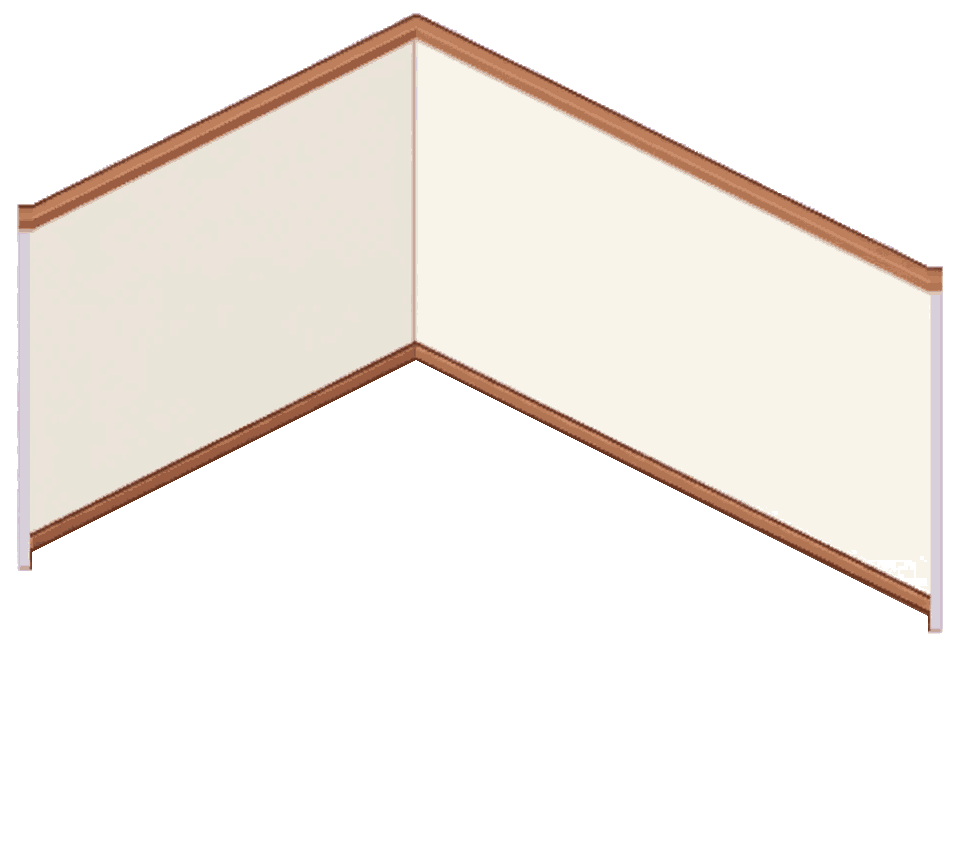
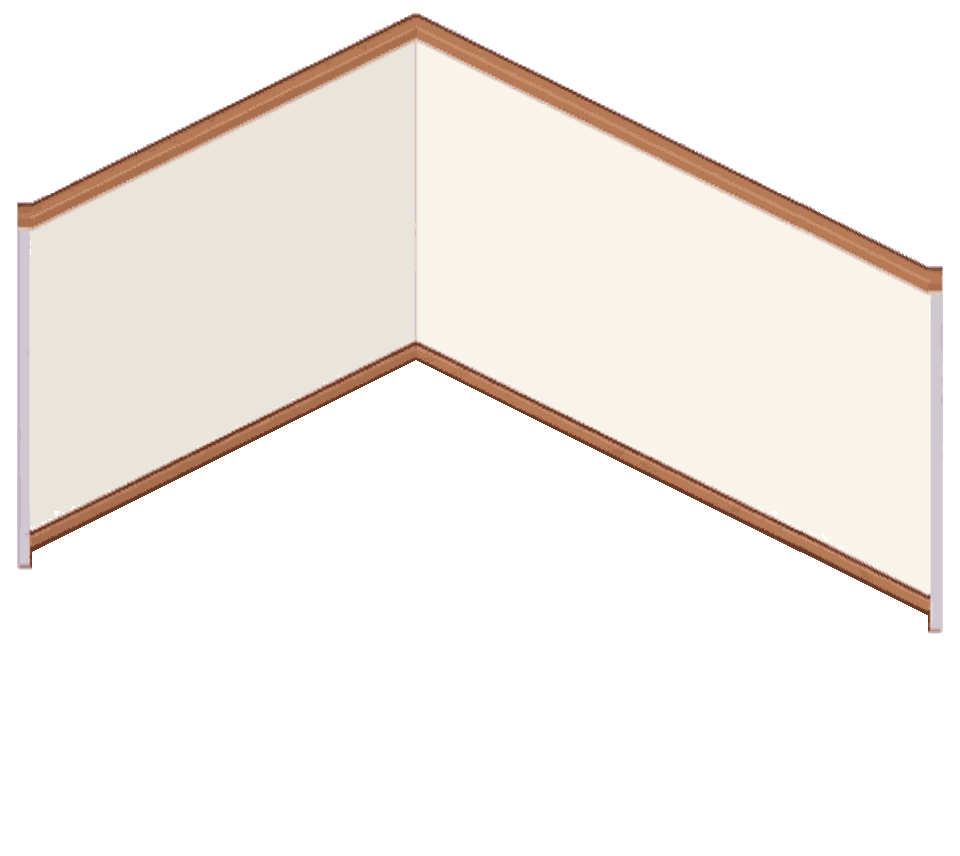
Room decorating: one pattern per wallpaper on both walls, split two-tone samples

diff --git a/index.html b/index.html
@@ -360,6 +360,9 @@
     .pet-menu .pet-menu-size input { flex: 1; min-width: 0; accent-color: #f59e0b; }
     .pet-menu .pet-size-val { width: 32px; text-align: right; color: #fde68a; }
     .pet-menu button.pet-menu-home { flex: 0 0 30px; padding: 4px 0; }
+    .pet-menu button.pet-menu-follow { width: 100%; margin-top: 8px; }
+    .pet-menu button.pet-menu-follow.on { background: #065f46; border-color: #10b981; color: #d1fae5; }
+    .pet-menu .pet-menu-today { margin-top: 3px; color: #94a3b8; font-size: 10px; font-weight: 700; }
     .pet-menu button:hover { background: #334155; }
     @media (prefers-reduced-motion: reduce) { .pet-actor.pop .pet-body, .pet-fx, .pet-bubble { animation: none; } }
   </style>
@@ -1160,6 +1163,13 @@
                 ⛺ 용병 모집
               </button>
             </div>
+          </div>
+
+          <!-- 정렬 (누르면 그 순서로 저장) · 카드를 끌어 다른 카드 위에 놓거나 ◀▶로 직접 순서 변경 -->
+          <div class="flex items-center gap-1.5 flex-wrap text-xs">
+            <span class="text-slate-400 font-bold">정렬</span>
+            <div id="rosterSortBar" class="flex items-center gap-1 flex-wrap"></div>
+            <span class="text-[10px] text-slate-500">· 카드를 끌어 다른 카드 위에 놓거나 ◀▶ 버튼으로 순서를 바꿀 수 있어요</span>
           </div>
 
           <div id="myMercList" class="grid grid-cols-1 sm:grid-cols-2 lg:grid-cols-3 gap-3"></div>
@@ -6012,6 +6022,7 @@
             if (!Array.isArray(s.roster)) {
               s.roster = [];
             }
+            ensureRosterGotAt(s.roster);
             s.roster.forEach(m => {
               if (m.name && m.name.includes(' ')) {
                 m.name = m.name.split(' ').pop();
@@ -7566,10 +7577,97 @@
       if (dummyEl) dummyEl.textContent = `허수아비 개체당 ❤ ${dummyHpEach.toLocaleString()}`;
     }
 
+    // 용병을 얻은 순서(최신 정렬용) · 기록이 없던 예전 용병은 지금 목록 순서대로 1, 2, 3…
+    function ensureRosterGotAt(roster) {
+      (roster || []).forEach((m, i) => {
+        if (m && typeof m.gotAt !== 'number') m.gotAt = i + 1;
+      });
+    }
+
+    const ROSTER_SORTS = [
+      { key: 'level', label: '레벨' },
+      { key: 'recent', label: '최신' },
+      { key: 'power', label: '전투력' },
+      { key: 'job', label: '직업' }
+    ];
+
+    // 정렬 버튼: 누른 순서대로 보유 용병단 배열 자체를 다시 저장 (이후 직접 순서 변경 가능)
+    function sortRoster(key) {
+      const stu = getActiveStudent();
+      if (!stu || !Array.isArray(stu.roster)) return;
+      ensureRosterGotAt(stu.roster);
+      const jobOrder = Object.keys(JOB_DEFS);
+      const power = new Map(stu.roster.map(m => [m.id, calcMercCombatPower(m, stu)]));
+      const byPower = (a, b) => power.get(b.id) - power.get(a.id);
+      const cmp = {
+        level: (a, b) => (b.level || 0) - (a.level || 0) || byPower(a, b),
+        recent: (a, b) => b.gotAt - a.gotAt,
+        power: byPower,
+        job: (a, b) => jobOrder.indexOf(a.job) - jobOrder.indexOf(b.job) || (b.level || 0) - (a.level || 0) || byPower(a, b)
+      }[key];
+      if (!cmp) return;
+      stu.roster.sort(cmp);
+      stu.rosterSort = key;
+      saveState();
+      renderSquadTab();
+    }
+
+    // ◀▶ 버튼: 한 칸 앞/뒤로
+    function moveRosterMerc(mercId, dir) {
+      const stu = getActiveStudent();
+      const i = stu.roster.findIndex(m => m.id === mercId);
+      const j = i + dir;
+      if (i < 0 || j < 0 || j >= stu.roster.length) return;
+      [stu.roster[i], stu.roster[j]] = [stu.roster[j], stu.roster[i]];
+      stu.rosterSort = null;
+      saveState();
+      renderSquadTab();
+    }
+
+    // 카드를 끌어 다른 카드 위에 놓으면 그 자리로 옮김
+    function handleRosterCardDragOver(event) {
+      if (!draggingMercId) return;
+      event.preventDefault();
+      if (event.dataTransfer) event.dataTransfer.dropEffect = 'move';
+      event.currentTarget.classList.add('ring-2', 'ring-amber-400');
+    }
+
+    function handleRosterCardDragLeave(event) {
+      event.currentTarget.classList.remove('ring-2', 'ring-amber-400');
+    }
+
+    function handleRosterCardDrop(event, targetId) {
+      event.preventDefault();
+      event.currentTarget.classList.remove('ring-2', 'ring-amber-400');
+      const stu = getActiveStudent();
+      const fromId = draggingMercId || (event.dataTransfer ? event.dataTransfer.getData('text/plain') : null);
+      draggingMercId = null;
+      const from = stu.roster.findIndex(m => m.id === fromId);
+      const to = stu.roster.findIndex(m => m.id === targetId);
+      if (from < 0 || to < 0 || from === to) return;
+      const [merc] = stu.roster.splice(from, 1);
+      stu.roster.splice(to, 0, merc);
+      stu.rosterSort = null;
+      saveState();
+      renderSquadTab();
+    }
+
+    function renderRosterSortBar(stu) {
+      const bar = document.getElementById('rosterSortBar');
+      if (!bar) return;
+      bar.innerHTML = ROSTER_SORTS.map(s => `<button onclick="sortRoster('${s.key}')"
+        class="px-2.5 py-1 rounded-lg font-bold border transition ${
+          stu && stu.rosterSort === s.key
+            ? 'bg-indigo-500 border-indigo-400 text-white'
+            : 'bg-slate-800 border-slate-700 text-slate-300 hover:bg-slate-700'
+        }">${s.label}</button>`).join('');
+    }
+
     function renderSquadTab() {
       hideStatTooltip(); // 다시 그리면 마우스가 올라가 있던 칸이 사라지므로 설명 팝업도 닫음
       const stu = getActiveStudent();
       updateSquadPowerDashboard(stu);
+      renderRosterSortBar(stu);
       if (!stu.roster || stu.roster.length === 0) {
         selectedMercId = null;
         document.getElementById('rosterCountBadge').textContent = `보유 0/${MAX_ROSTER}명 · 출전 0/${MAX_DEPLOY}명 · 용병단 전투력 0`;
@@ -7599,7 +7697,7 @@
       document.getElementById('rosterCountBadge').textContent = `보유 ${stu.roster.length}/${MAX_ROSTER}명 · 출전 ${deployedCount}/${MAX_DEPLOY}명 · ⚔ 용병단 전투력 ${totalSquadPower.toLocaleString()}`;
 
       const listEl = document.getElementById('myMercList');
-      listEl.innerHTML = stu.roster.map(merc => {
+      listEl.innerHTML = stu.roster.map((merc, idx) => {
         const job = JOB_DEFS[merc.job];
         const rar = RARITY_DEFS[merc.rarity] || RARITY_DEFS.N;
         const skill = getMercSkillObj(merc);
@@ -7614,6 +7712,10 @@
           <div onclick="openMercDetailModal('${merc.id}')"
             draggable="true"
             ondragstart="handleFormationDragStart(event, '${merc.id}')"
+            ondragend="draggingMercId = null"
+            ondragover="handleRosterCardDragOver(event)"
+            ondragleave="handleRosterCardDragLeave(event)"
+            ondrop="handleRosterCardDrop(event, '${merc.id}')"
             class="cursor-pointer rounded-2xl border-2 p-3 transition flex flex-col justify-between rarity-${merc.rarity} ${rar.isRare ? 'merc-rare-shine' : ''} hover:shadow-lg ${
               isSel ? 'ring-2 ring-blue-500 border-blue-500' : ''
             }">
@@ -7635,6 +7737,13 @@
                     </div>
                   </div>
                 </div>
+                <div class="flex items-center gap-1 shrink-0">
+                <div class="flex flex-col gap-0.5">
+                  <button onclick="event.stopPropagation(); moveRosterMerc('${merc.id}', -1)" title="앞으로" ${idx === 0 ? 'disabled' : ''}
+                    class="w-5 h-4 leading-none rounded bg-slate-800 border border-slate-700 text-[9px] text-slate-300 hover:bg-slate-700 disabled:opacity-30 disabled:cursor-default">◀</button>
+                  <button onclick="event.stopPropagation(); moveRosterMerc('${merc.id}', 1)" title="뒤로" ${idx === stu.roster.length - 1 ? 'disabled' : ''}
+                    class="w-5 h-4 leading-none rounded bg-slate-800 border border-slate-700 text-[9px] text-slate-300 hover:bg-slate-700 disabled:opacity-30 disabled:cursor-default">▶</button>
+                </div>
                 <button onclick="event.stopPropagation(); toggleMercDeploy('${merc.id}')"
                   class="px-2.5 py-1 rounded-xl text-xs font-extrabold transition ${
                     merc.deployed
@@ -7643,6 +7752,7 @@
                   }">
                   ${merc.deployed ? '✅ 출전중' : '대기중'}
                 </button>
+                </div>
               </div>
 
               <!-- 스킬 3칸 (아이콘 + 이름, 잠긴 스킬은 열리는 레벨) · 마우스를 올리면 설명 -->
@@ -8363,6 +8473,7 @@
       const m = normalizeMercForSync(deepCleanStrings(JSON.parse(JSON.stringify(gift.merc))));
       if (stu.roster.some(x => x.id === m.id)) m.id = 'merc_' + Math.random().toString(36).substring(2, 9) + '_' + Date.now();
       m.deployed = stu.roster.filter(x => x.deployed).length < MAX_DEPLOY;
+      m.gotAt = Date.now();
       stu.roster.push(m);
       return m;
     }
@@ -9388,7 +9499,7 @@
       stu.mc -= cost;
       cand.hired = true;
       const deployedCount = stu.roster.filter(m => m.deployed).length;
-      const hiredMerc = { ...cand, deployed: deployedCount < MAX_DEPLOY, hireCost: cost };
+      const hiredMerc = { ...cand, deployed: deployedCount < MAX_DEPLOY, hireCost: cost, gotAt: Date.now() };
       delete hiredMerc.hired;
       delete hiredMerc.soldBack;
       delete hiredMerc.soldPrice;
@@ -22651,6 +22762,7 @@
       if (!Array.isArray(s.defenseFormation)) s.defenseFormation = [];
       if (!s.relics || typeof s.relics !== 'object') s.relics = {};
       s.roster.forEach(normalizeMercForSync);
+      ensureRosterGotAt(s.roster);
       s.defenseFormation.forEach(normalizeMercForSync);
       deepCleanStrings(s);
       return s;
@@ -28779,9 +28891,11 @@
     /********************************************************************
      * 펫: 로그인한 학생의 펫이 화면 위를 돌아다님 (바탕화면 펫 키우기 느낌)
      * - 거래소 펫 입양소에서 CA로 입양 (학생당 한 마리)
-     * - 클릭하면 메뉴(쓰다듬기·먹이·츄르·크기·쉬게 하기), 마우스로 문지르면 쓰다듬기, 끌어서 옮기기
+     * - 클릭하면 메뉴(쓰다듬기·먹이·간식·크기·마우스 따라오기·쉬게 하기), 마우스로 문지르면 쓰다듬기, 끌어서 옮기기
+     * - 애정은 하루에 10까지만 오름. 배부름이 0%면 1시간마다 애정 -1 (하루 10까지)
      * - 위아래로 갈 때는 깡충 뛰면서 이동 (올라갈 땐 뒷모습)
-     * - 기록은 학생 기록(stu.pet)에 둠: { type, name, love, full, fullAt, snackAt, size, adoptedAt }
+     * - 기록은 학생 기록(stu.pet)에 둠: { type, name, love, full, fullAt, snackAt, size, adoptedAt,
+     *   loveDay, loveGain, loveLossDay, loveLoss, starveAt }
      * - 배부름(full)은 시간이 지나면 줄어듦 (fullAt 기준으로 그때그때 계산)
      ********************************************************************/
     const PET_DEFS = {
@@ -28847,8 +28961,15 @@
     const PET_FEED_FULL = 30;
     const PET_SNACK_COOLDOWN_MS = 60000;
     const PET_PAT_COOLDOWN_MS = 8000; // 쓰다듬기로 애정이 오르는 간격
+    const PET_LOVE_GAIN_PER_DAY = 10; // 하루에 오를 수 있는 애정
+    const PET_LOVE_LOSS_PER_DAY = 10; // 굶어서 하루에 떨어질 수 있는 애정
+    const PET_FOLLOW_GAP = 60;        // 마우스 따라오기: 커서 옆에 서는 거리(px)
+    function petDayKey(ts) {
+      const d = new Date(ts);
+      return `${d.getFullYear()}-${String(d.getMonth() + 1).padStart(2, '0')}-${String(d.getDate()).padStart(2, '0')}`;
+    }
     const PET_LINES = {
-      cat: { idle: ['냐옹~', '골골골...', '심심하다냥', '주인님 최고냥!', '꾹꾹이 하고 싶다냥'], greet: '주인님 왔다냥!', hungry: '배고프다냥...', full: '배불러냥~', pat: ['골골골~', '거기 좋다냥!', '냐아~♡'], eat: '냠냠 맛있다냥!', snack: '츄르 최고냥!♡', snackWait: '아까 먹었다냥~ 조금 이따 줘!' },
+      cat: { idle: ['냐옹~', '골골골...', '심심하다냥', '주인님 최고냥!', '꾹꾹이 하고 싶다냥'], greet: '주인님 왔다냥!', hungry: '배고프다냥...', full: '배불러냥~', pat: ['골골골~', '거기 좋다냥!', '냐아~♡'], eat: '냠냠 맛있다냥!', snack: '간식 최고냥!♡', snackWait: '아까 먹었다냥~ 조금 이따 줘!' },
       dog: { idle: ['멍멍!', '산책 가자!', '꼬리 살랑살랑~', '주인님 최고멍!'], greet: '주인님 왔다멍!', hungry: '배고파요 멍...', full: '배불러요 멍~', pat: ['헥헥 좋아요!', '멍멍♡', '더 쓰다듬어 줘요!'], eat: '냠냠 맛있다멍!', snack: '간식 최고멍!♡', snackWait: '아까 먹었어요 멍~' },
     };
 
@@ -28882,6 +29003,51 @@
       hiddenKey() { return `mca_pet_hidden:${this.stuId}`; },
       isHidden() { try { return localStorage.getItem(this.hiddenKey()) === '1'; } catch (e) { return false; } },
       setHidden(v) { try { v ? localStorage.setItem(this.hiddenKey(), '1') : localStorage.removeItem(this.hiddenKey()); } catch (e) {} },
+      // 마우스 따라오기 켜기/끄기 (기기마다 학생별로 기억)
+      followKey() { return `mca_pet_follow:${this.stuId}`; },
+      isFollowing() { try { return localStorage.getItem(this.followKey()) === '1'; } catch (e) { return false; } },
+      toggleFollow() {
+        const on = !this.isFollowing();
+        try { on ? localStorage.setItem(this.followKey(), '1') : localStorage.removeItem(this.followKey()); } catch (e) {}
+        const p = this.data();
+        if (p) this.say(on ? `${p.name}: 따라갈게요!` : `${p.name}: 자유롭게 놀래요~`, 1600);
+        if (!on && this.mode === 'walk') { this.hopT = 0; this.setMode('idle', 1.5); }
+        this.renderMenu();
+      },
+
+      // 애정 올리기: 하루 PET_LOVE_GAIN_PER_DAY까지. 실제로 오른 양을 돌려줌
+      addLove(p, n) {
+        const today = getTodayDateString();
+        if (p.loveDay !== today) { p.loveDay = today; p.loveGain = 0; }
+        const room = Math.max(0, PET_LOVE_GAIN_PER_DAY - (p.loveGain || 0));
+        const add = Math.min(n, room, 100 - (p.love || 0));
+        if (add <= 0) return 0;
+        p.love = (p.love || 0) + add;
+        p.loveGain = (p.loveGain || 0) + add;
+        return add;
+      },
+      todayLoveGain(p) { return p && p.loveDay === getTodayDateString() ? (p.loveGain || 0) : 0; },
+      // 배부름 0%로 지낸 시간만큼 애정 -1/시간 (하루 PET_LOVE_LOSS_PER_DAY까지). 지난 시간도 한 시간씩 따져 계산
+      applyStarve(p = this.data()) {
+        if (!p || !p.fullAt) return;
+        const H = 3600000;
+        const now = Date.now();
+        const zeroAt = p.fullAt + Math.max(0, p.full ?? 60) / PET_FULL_DECAY_PER_HOUR * H;
+        let t = Math.max(zeroAt, p.starveAt || 0);
+        let changed = false;
+        for (let i = 0; t + H <= now && i < 24 * 60; i++) {
+          t += H;
+          const day = petDayKey(t);
+          if (p.loveLossDay !== day) { p.loveLossDay = day; p.loveLoss = 0; }
+          if ((p.loveLoss || 0) < PET_LOVE_LOSS_PER_DAY && (p.love || 0) > 0) {
+            p.love -= 1;
+            p.loveLoss = (p.loveLoss || 0) + 1;
+          }
+          changed = true;
+        }
+        if (t + H <= now) t = now - ((now - t) % H); // 아주 오래 비운 경우 나머지는 건너뜀
+        if (changed || p.starveAt !== t && t > zeroAt) { p.starveAt = t; this.saveSoon(); }
+      },
 
       // 로그인 직후: 펫이 있으면 인사하며 등장
       onLogin(stu) {
@@ -29522,13 +29688,20 @@
     const HOME_RETIRED = { chair_blue: 500, chair_dark: 500 };
     // 벽지·바닥 (tools/room-skin.cjs로 만든 assets/room/<part>_<id>.webp: 방 캔버스와 같은 크기, 그 부분만 그려짐)
     const HOME_SKINS = [
-      { part: 'wall',  id: 'patch',         name: '파스텔 패널 벽지',   price: 600 },
-      { part: 'wall',  id: 'check_mint',    name: '체크·민트 도트 벽지', price: 600 },
-      { part: 'wall',  id: 'flower_stripe', name: '꽃무늬·민트 체크 벽지', price: 700 },
-      { part: 'wall',  id: 'cream_lime',    name: '크림·연두 벽지',     price: 400 },
-      { part: 'wall',  id: 'blue_gray',     name: '회청색 벽지',        price: 400 },
-      { part: 'wall',  id: 'ivory',         name: '아이보리 벽지',      price: 400 },
-      { part: 'wall',  id: 'olive_mint',    name: '올리브·민트 벽지',   price: 400 },
+      // 벽지는 양쪽 벽이 같은 무늬 (샘플 양쪽이 다르면 하나씩 따로: room-skin.cjs --side left|right)
+      { part: 'wall',  id: 'floral_pink',   name: '분홍 꽃무늬 벽지',   price: 600 },
+      { part: 'wall',  id: 'plaid_mint',    name: '민트 체크 벽지',     price: 600 },
+      { part: 'wall',  id: 'gingham_peach', name: '복숭아 깅엄 벽지',   price: 500 },
+      { part: 'wall',  id: 'check_beige',   name: '베이지 격자 벽지',   price: 500 },
+      { part: 'wall',  id: 'dot_mint',      name: '민트 도트 벽지',     price: 500 },
+      { part: 'wall',  id: 'dot_sage',      name: '세이지 도트 패널 벽지', price: 500 },
+      { part: 'wall',  id: 'cream',         name: '크림 벽지',          price: 300 },
+      { part: 'wall',  id: 'lime',          name: '연두 벽지',          price: 300 },
+      { part: 'wall',  id: 'ivory',         name: '아이보리 벽지',      price: 300 },
+      { part: 'wall',  id: 'sage_gray',     name: '연회색 벽지',        price: 300 },
+      { part: 'wall',  id: 'slate_blue',    name: '회청색 벽지',        price: 300 },
+      { part: 'wall',  id: 'olive',         name: '올리브 벽지',        price: 300 },
+      { part: 'wall',  id: 'mint',          name: '민트 벽지',          price: 300 },
       { part: 'floor', id: 'terracotta',    name: '테라코타 모로코 타일', price: 900 },
       { part: 'floor', id: 'mustard',       name: '머스터드 모로코 타일', price: 900 },
       { part: 'floor', id: 'wood',          name: '나무 마루',          price: 800 },
@@ -29538,6 +29711,11 @@
       { part: 'floor', id: 'gray',          name: '회색 타일',          price: 500 },
     ];
     const HOME_SKIN = Object.fromEntries(HOME_SKINS.map(s => [`${s.part}:${s.id}`, s]));
+    // 예전 양쪽이 다른 벽지 → 나눈 벽지 둘 다 줌 (첫째가 지금 쓰는 벽지가 됨)
+    const HOME_SKIN_SPLIT = {
+      patch: ['check_beige', 'dot_sage'], check_mint: ['gingham_peach', 'dot_mint'], flower_stripe: ['floral_pink', 'plaid_mint'],
+      cream_lime: ['cream', 'lime'], blue_gray: ['sage_gray', 'slate_blue'], olive_mint: ['olive', 'mint'],
+    };
     // 색 바꾸기 견본 (가구의 색 묶음마다 하나를 고르면 명암은 그대로 두고 색만 바뀜)
     const HOME_SWATCHES = ['#d94c4c', '#e8873a', '#e8c43a', '#8cc84b', '#3f9a5a', '#4fb8b0', '#5bb4e0', '#3f6fc8', '#2f3f86', '#8a5cc8', '#e87aa8', '#9a6438', '#c9a27a', '#3a3a40', '#f2f0f4'];
     function homeHsl(r, g, b) {
@@ -29582,7 +29760,11 @@
         stu.home.items = stu.home.items.filter(it => it && HOME_DEF[it.id]);
         // 산 벽지·바닥 ('wall:<id>' / 'floor:<id>'), 지금 쓰는 것 wall·floor (없으면 기본 방)
         if (!Array.isArray(stu.home.skins)) stu.home.skins = Object.values(stu.home.skins || {});
-        stu.home.skins = stu.home.skins.filter(k => HOME_SKIN[k]);
+        stu.home.skins = [...new Set(stu.home.skins.flatMap(k => {
+          const [p, id] = String(k).split(':');
+          return p === 'wall' && HOME_SKIN_SPLIT[id] ? HOME_SKIN_SPLIT[id].map(n => `wall:${n}`) : [k];
+        }))].filter(k => HOME_SKIN[k]);
+        if (HOME_SKIN_SPLIT[stu.home.wall]) stu.home.wall = HOME_SKIN_SPLIT[stu.home.wall][0];
         ['wall', 'floor'].forEach(p => { if (stu.home[p] && !HOME_SKIN[`${p}:${stu.home[p]}`]) delete stu.home[p]; });
         return stu.home;
       },

diff --git a/assets/furniture/README.md b/assets/furniture/README.md
@@ -171,15 +171,16 @@ AI 그림 생성에 쓸 요청문은 [PROMPTS.md](PROMPTS.md)에 있습니다.
 - 빈 방 틀(1024×876, 8×6칸) 그대로 칠한 방 그림을 받으면 `tools/room-skin.cjs`가 벽과 바닥을 떼어 `assets/room/wall_<id>.webp` · `floor_<id>.webp`(방 캔버스 960×856과 같은 크기, 그 부분만 그려짐)와 목록용 `*_t.webp`를 만듭니다.
   `node tools/room-skin.cjs <방 그림> --id <이름> --part wall|floor`
 - 바닥 세 꼭짓점(뒤·왼쪽·앞)으로 한 번에 옮기므로 비율은 그대로입니다. 벽 그림에는 몰딩·걸레받이·벽 끝 단면이, 바닥 그림에는 바닥 판 두께가 같이 들어 있어 벽지와 바닥을 서로 다른 샘플끼리 섞어도 됩니다.
+- **벽지는 양쪽 벽을 같은 무늬로**: `--side left|right`로 한쪽 벽 무늬를 양쪽에 칠함(모서리 기준 대칭, 오른쪽 벽 6~8칸은 되접음, 왼쪽 벽은 0.94배 그늘). 샘플 양쪽 벽지가 다르면 둘로 나눠 만듦.
 - 등록은 `HOME_SKINS`에 한 줄. 산 것은 `stu.home.skins`('wall:<id>'), 지금 쓰는 것은 `stu.home.wall` · `stu.home.floor`에 저장됩니다.
 
 | part | id | 이름 | 샘플 |
 |---|---|---|---|
-| wall | patch | 파스텔 패널 벽지 | 모로코 타일 방 |
-| wall | check_mint | 체크·민트 도트 벽지 | 머스터드 타일 방 |
-| wall | flower_stripe | 꽃무늬·민트 체크 벽지 | 꽃무늬 방 |
-| wall | cream_lime | 크림·연두 벽지 | 기본 타일 방 |
-| wall | blue_gray | 회청색 벽지 | 회색 타일 방 |
-| wall | ivory | 아이보리 벽지 | 나무 마루 방 |
-| wall | olive_mint | 올리브·민트 벽지 | 돌바닥 방 |
+| wall | floral_pink / plaid_mint | 분홍 꽃무늬 · 민트 체크 | 꽃무늬 방 왼쪽 / 오른쪽 |
+| wall | gingham_peach / dot_mint | 복숭아 깅엄 · 민트 도트 | 머스터드 타일 방 왼쪽 / 오른쪽 |
+| wall | check_beige / dot_sage | 베이지 격자 · 세이지 도트 패널 | 모로코 타일 방 왼쪽 / 오른쪽 |
+| wall | cream / lime | 크림 · 연두 | 기본 타일 방 왼쪽 / 오른쪽 |
+| wall | sage_gray / slate_blue | 연회색 · 회청색 | 회색 타일 방 왼쪽 / 오른쪽 |
+| wall | ivory | 아이보리 | 나무 마루 방 (양쪽 같음) |
+| wall | olive / mint | 올리브 · 민트 | 돌바닥 방 왼쪽 / 오른쪽 |
 | floor | terracotta / mustard / wood / stone / beige / sand / gray | 테라코타·머스터드 모로코 타일, 나무 마루, 돌바닥, 베이지·모카·회색 타일 | 위 방들 |
